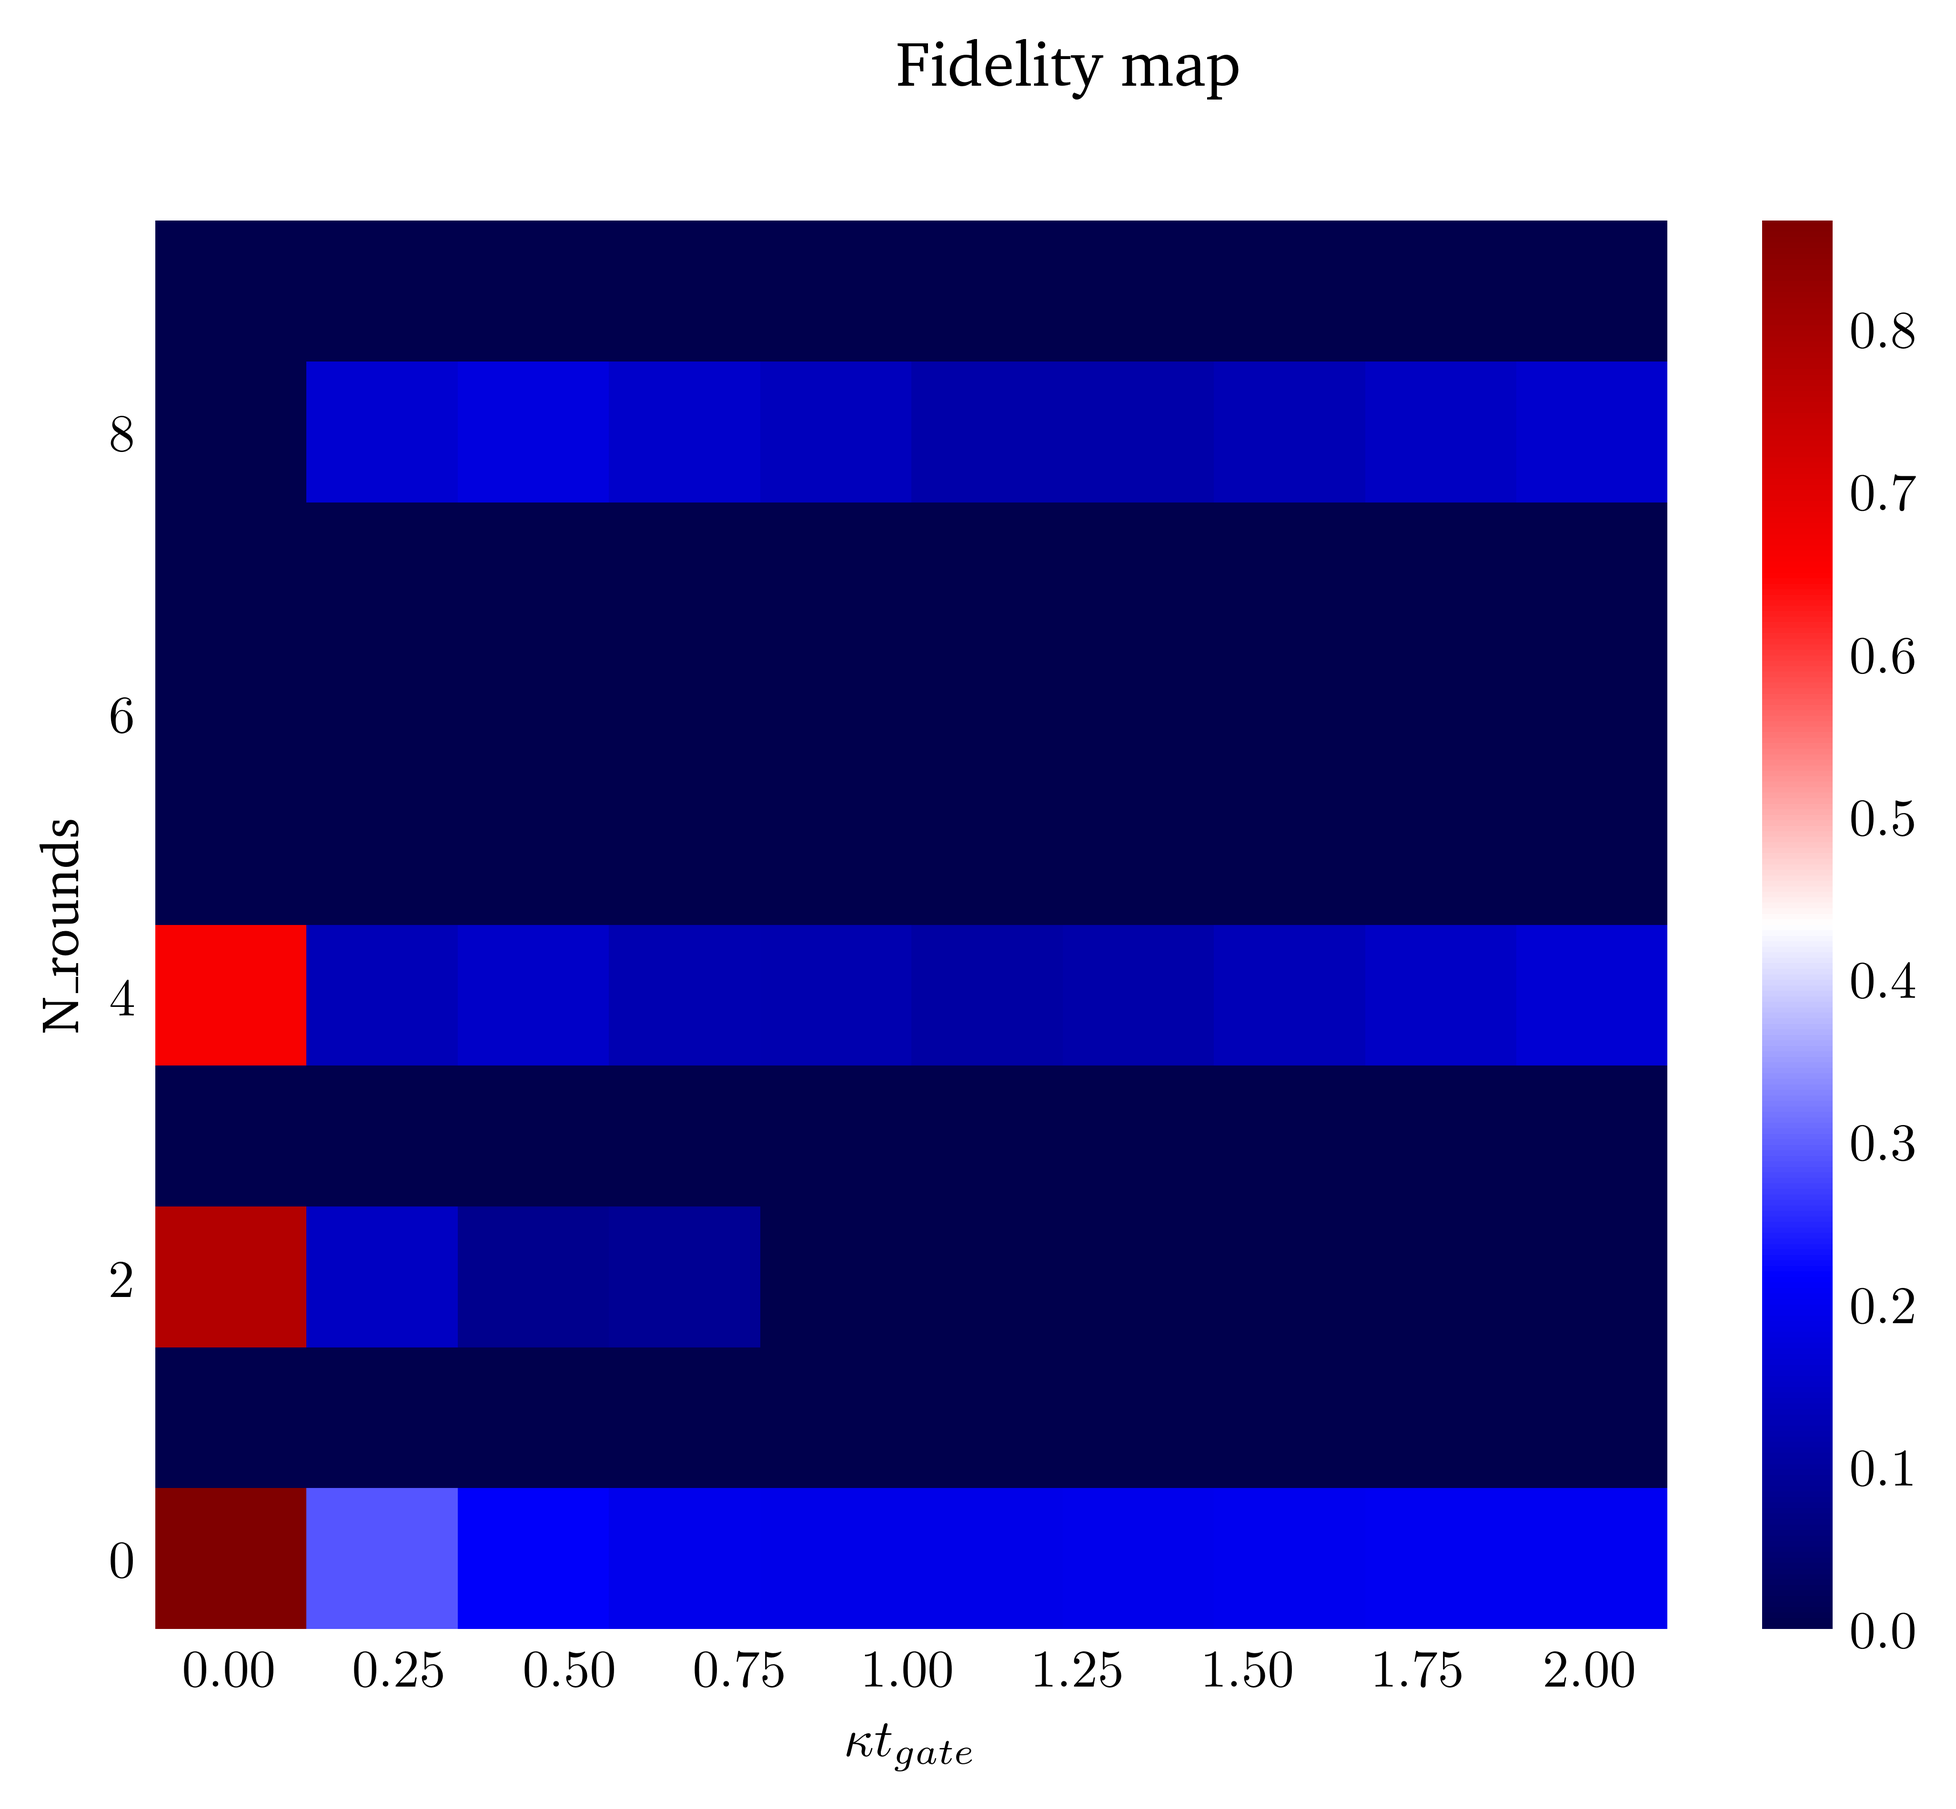
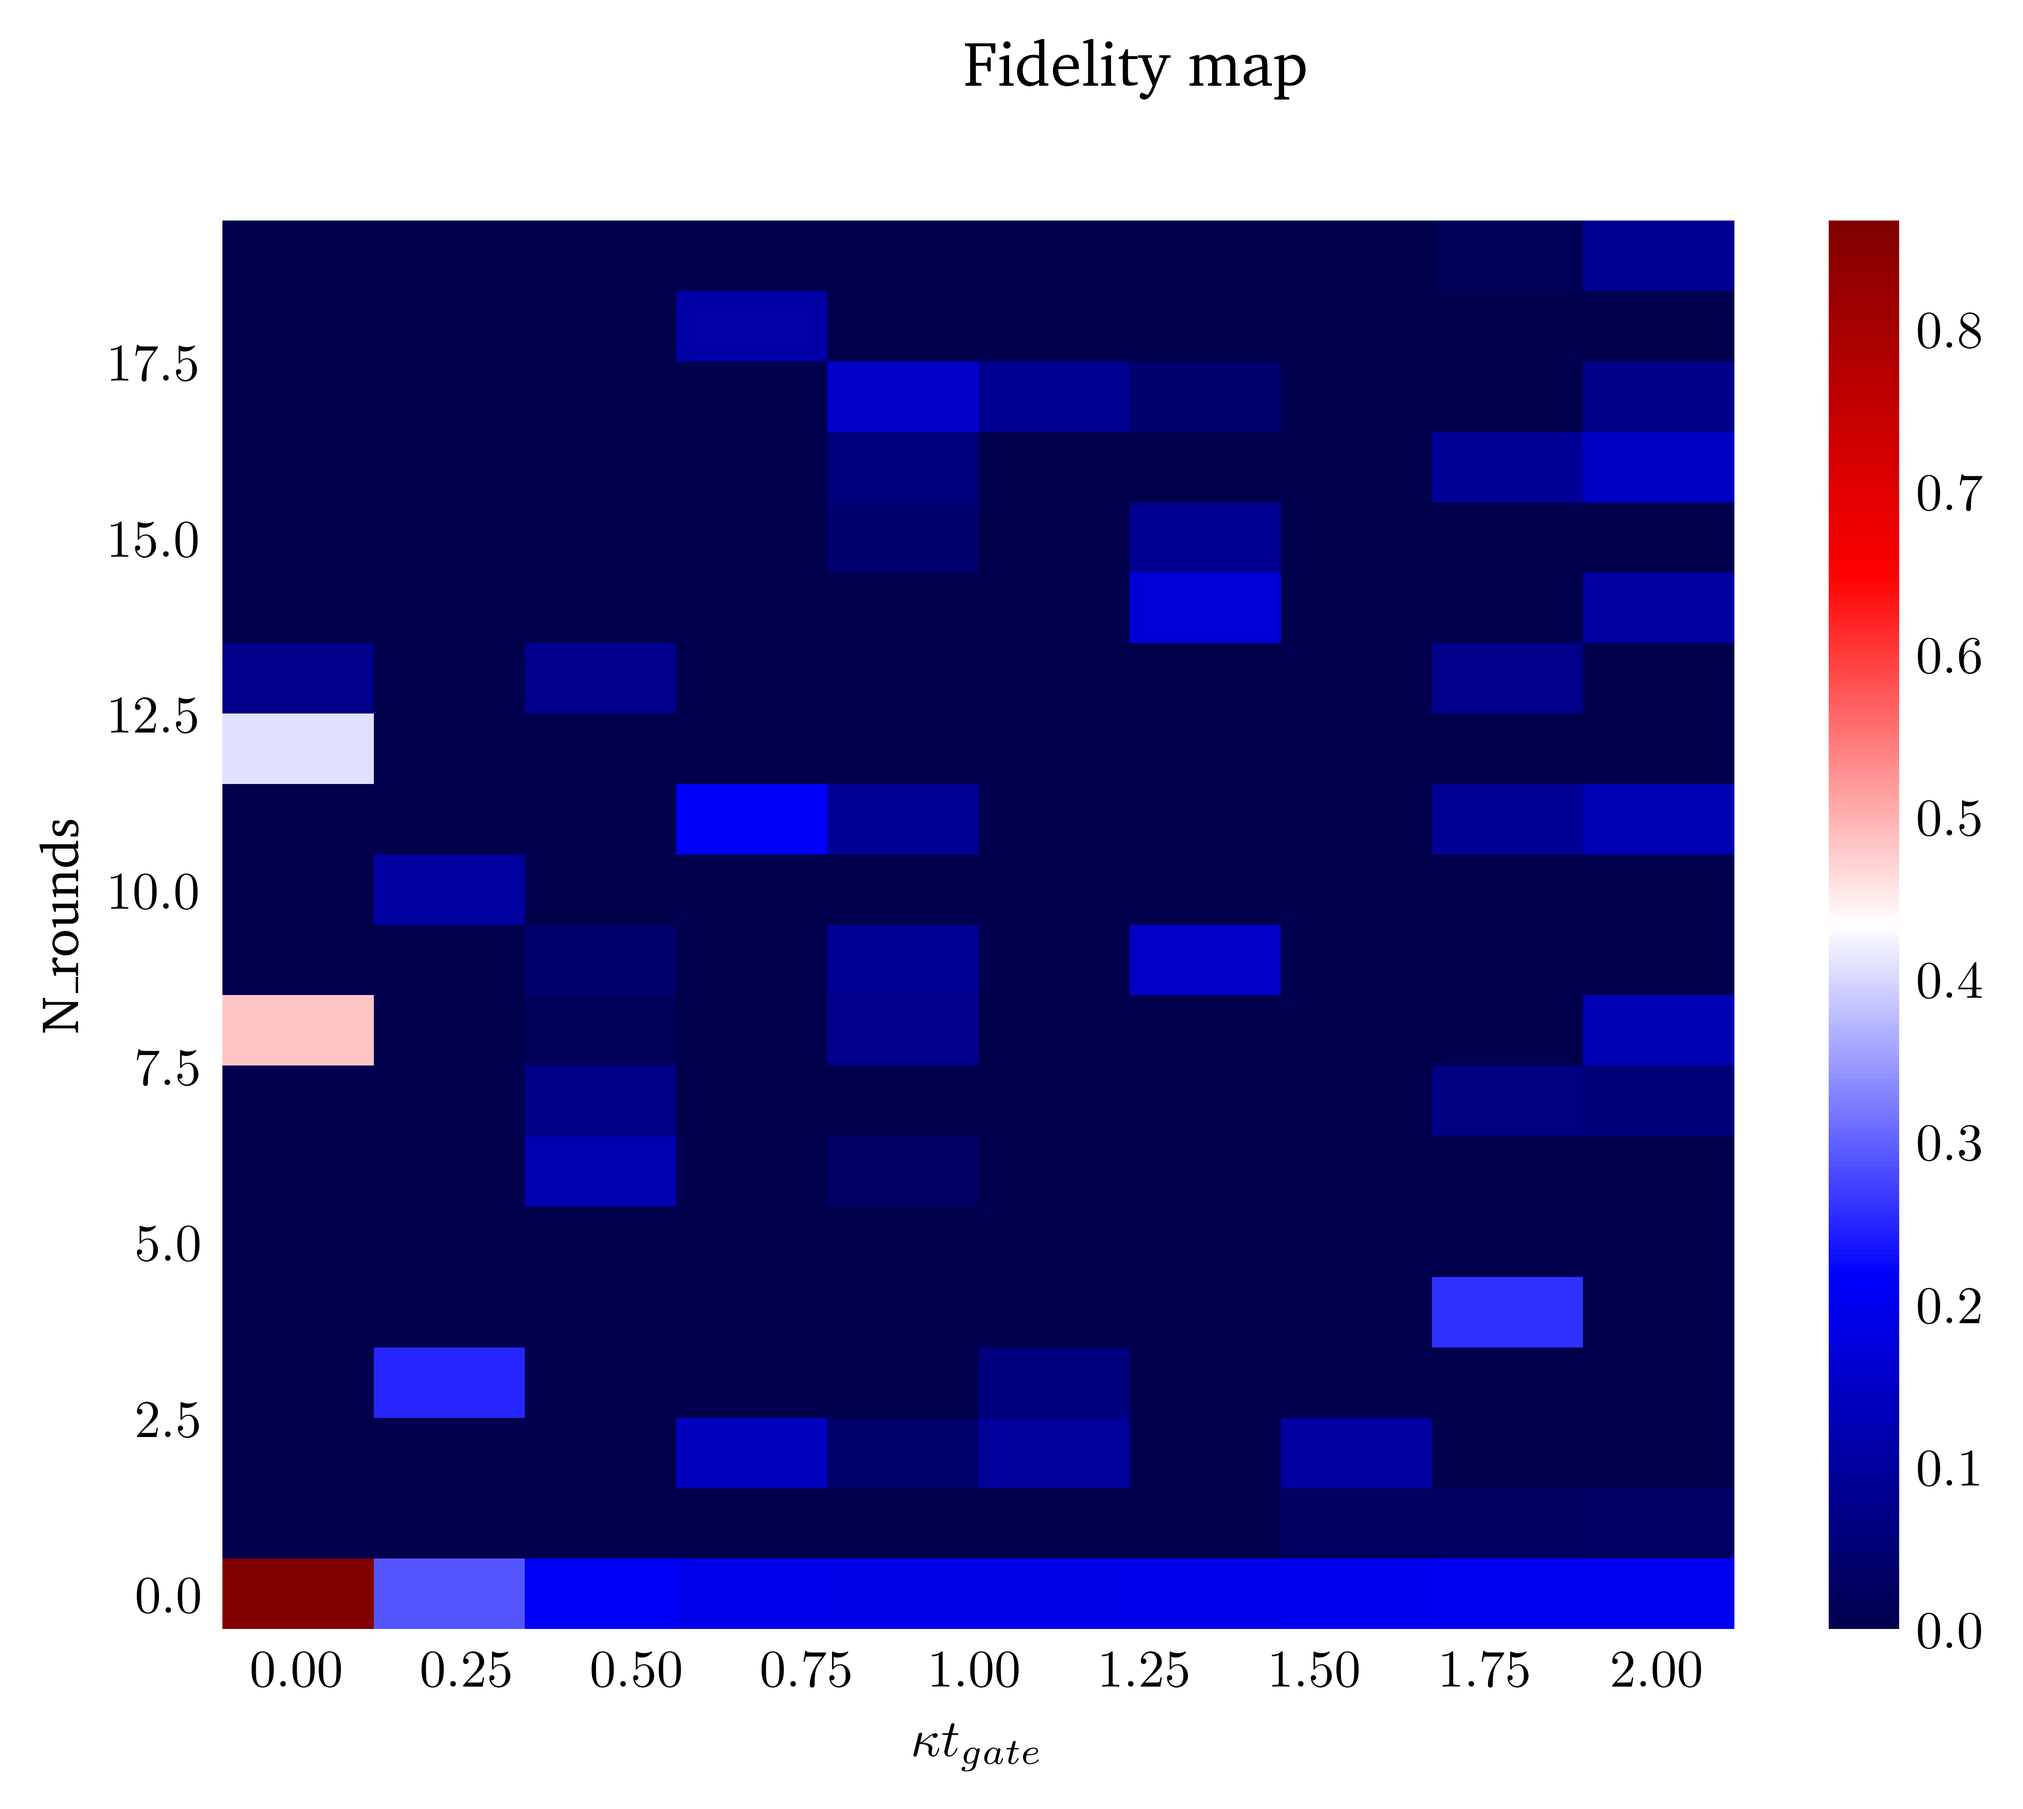
20roundscmaps

diff --git a/stage_baptiste/homemades/KrausOperator_JV.py b/stage_baptiste/homemades/KrausOperator_JV.py
@@ -174,13 +174,13 @@ def color_map(GKP_obj,H,t_gate,max_error_rate,max_N_rounds,mode='fid',t_num=10,k
     opList = opListsBs2(the_GKP)
     corrections = [opList[0][0]*opList[1][0],opList[0][0]*opList[1][1],  # [Bgg, Bge
                    opList[0][1]*opList[1][0],opList[0][1]*opList[1][1]]  # Beg, Bee]
-    correction_ix = get_correction_ix()  # get correction at random
-    correction = corrections[correction_ix]  # either Bgg,Bge,Beg or Bee
     fidelities,probabilities = [],[]  # initializing lists
     for e_state in e_states:
         for N_round in N_rounds:
             psi = e_state
             for round in range(N_round):
+                correction_ix = get_correction_ix()  # get correction at random
+                correction = corrections[correction_ix]  # either Bgg,Bge,Beg or Bee
                 psi = (correction*psi).unit()
             fidelities.append(fidelity(psi,state))
             # probabilities.append()  # ----- #

diff --git a/stage_baptiste/projects/Kraus_codes/color_maps/color_maps.py b/stage_baptiste/projects/Kraus_codes/color_maps/color_maps.py
@@ -22,7 +22,7 @@ GKP_obj = GKP(d,j,delta,hilbert_dim)
 H = N_op**2
 tgate = pi/8
 max_error_rate = 2
-max_N_rounds = 10
-fig_name = "cmap_4"
+max_N_rounds = 20
+fig_name = "cmap_3"
 fig_path = f"/Users/jeremie/Desktop/Stage_Baptiste/stage_baptiste/projects/Kraus_codes/color_maps/figs/"
 color_map(GKP_obj, H, tgate, max_error_rate, max_N_rounds, fig_name=fig_name, fig_path=fig_path)
